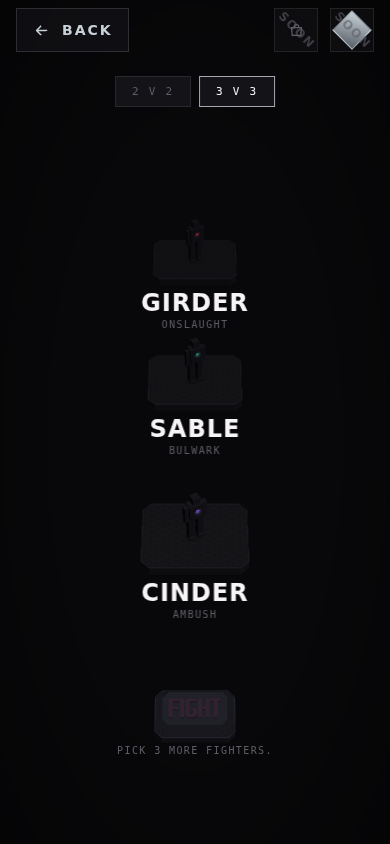
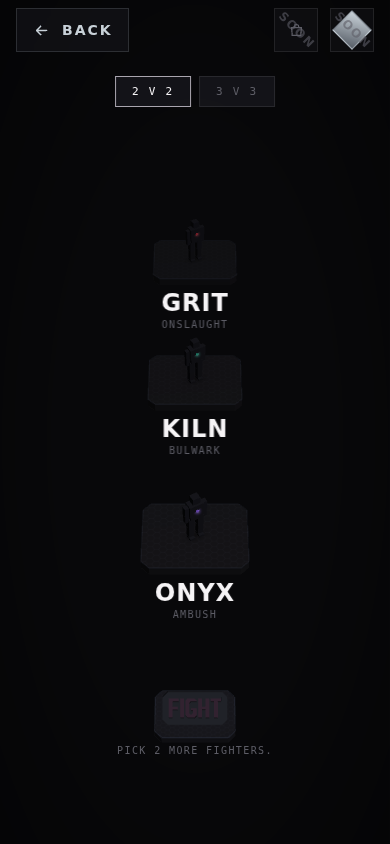
SQUAD по умолчанию — 2 V 2 при любом числе бойцов
Решение владельца 30.09.2026. Раньше при трёх бойцах и больше ворота
предлагали 3 V 3. Переключатель 2 V 2 | 3 V 3 остаётся, уже сделанный выбор
игрока не перезаписывается.

Claude-Session: https://claude.ai/code/session_018zUQQq3mtyVGLX8ZZ65nB7

Changed region(s): [[0.3692, 0.6777, 0.6462, 0.7393], [0.3692, 0.3389, 0.6462, 0.3697], [0.3692, 0.4929, 0.6154, 0.5237]]

diff --git a/src/data/arenaModes.js b/src/data/arenaModes.js
@@ -72,8 +72,8 @@ export const ARENA_MODES = [
     id: 'squad',
     name: 'SQUAD',
     tagline: 'TEAM V TEAM',
-    // Двое — это то, что игрок получит, если не трогал переключатель и бойцов у
-    // него меньше трёх. Настоящий размер выбирается в воротах и живёт в сейфе
+    // Двое — это то, что игрок получит, если не трогал переключатель (с 30.09.2026
+    // при любом числе бойцов, см. defaultSizeFor). Настоящий размер выбирается в воротах и живёт в сейфе
     // рядом с составом; `sizes` — из чего выбирать.
     squadSize: 2,
     sizes: [2, 3],
@@ -186,10 +186,12 @@ export function clampSize(id, n) {
  * таблица не знает. Ростер приходит числом снаружи, потому что про список
  * бойцов таблица режимов знать не должна.
  *
- * ПОЧЕМУ У КОМАНДЫ ОСОБОЕ ПРАВИЛО. Тройка интереснее двойки, и если игроку есть
- * кого поставить — предлагаем её. Остальным режимам это не подходит: у турнира
- * так же «побольше» означало бы сразу QUAD, а его сетка длиннее и это уже не
- * предложение, а решение за игрока.
+ * У КОМАНДЫ ПРАВИЛО СВОЁ, НО ТЕПЕРЬ ОНО ПРОСТОЕ: всегда 2 V 2 (решение владельца
+ * 30.09.2026). До этого при трёх бойцах и больше предлагалась тройка — «интереснее
+ * двойки»; на демо это оказалось неожиданным умолчанием. Остальным режимам особое
+ * правило не подходит: у турнира «побольше» означало бы сразу QUAD, а его сетка
+ * длиннее и это уже не предложение, а решение за игрока. Параметр `rosterCount`
+ * остаётся в сигнатуре, чтобы правило можно было вернуть без правки вызова.
  *
  * @param {string|null|undefined} id
  * @param {number} rosterCount сколько бойцов у игрока
@@ -198,6 +200,8 @@ export function clampSize(id, n) {
 export function defaultSizeFor(id, rosterCount) {
   const m = getMode(id);
   if (!sizesOf(m.id).length) return m.squadSize;
-  if (m.id === 'squad') return rosterCount >= 3 ? 3 : 2;
+  // 30.09.2026 (решение владельца): команда по умолчанию — 2 V 2 при любом ростере.
+  // Раньше при трёх бойцах и больше предлагалась тройка. Переключатель остаётся.
+  if (m.id === 'squad') return 2;
   return m.squadSize;
 }

diff --git a/CLAUDE.md b/CLAUDE.md
@@ -6965,3 +6965,6 @@ v3. **Служебного адреса `/dev/spar` больше нет** — д
 - Слово стоит НИЗКО, у передней кромки плиты, а не над эмблемой: ряды островов
   тесные, и слово над эмблемой ложилось на подпись острова позади.
   На `bounds()` (рамку кадра камеры) слово не влияет.
+- SQUAD по умолчанию — 2 V 2 при любом числе бойцов (решение владельца
+  30.09.2026, `defaultSizeFor` в `arenaModes.js`); раньше при трёх бойцах и больше
+  предлагалась тройка. Переключатель 2 V 2 | 3 V 3 остаётся.
